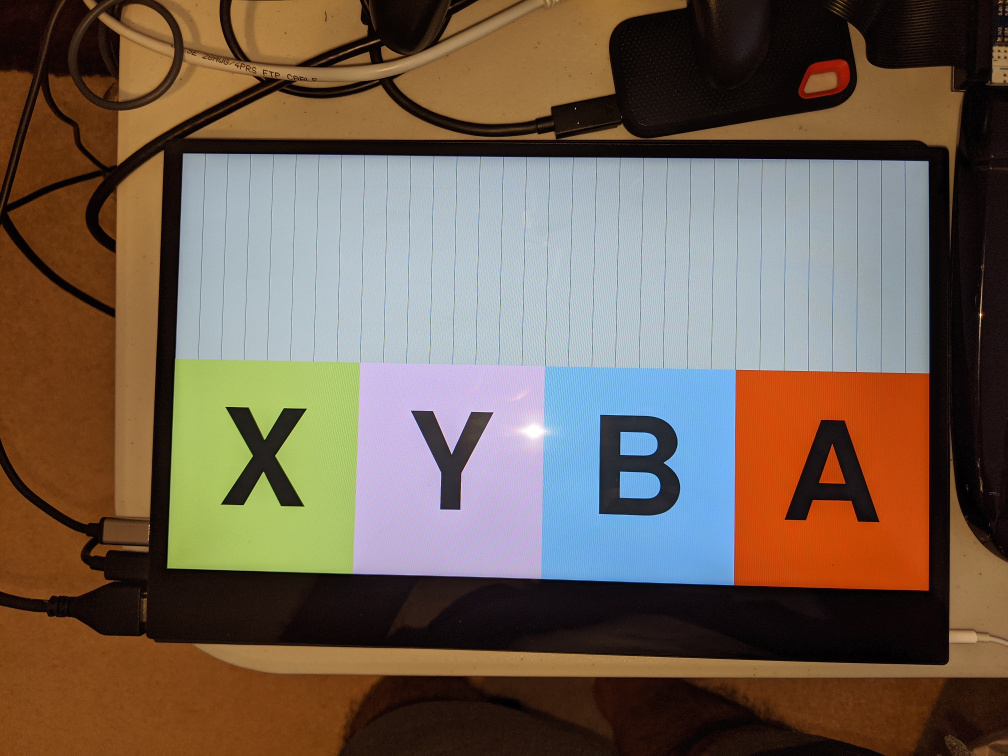
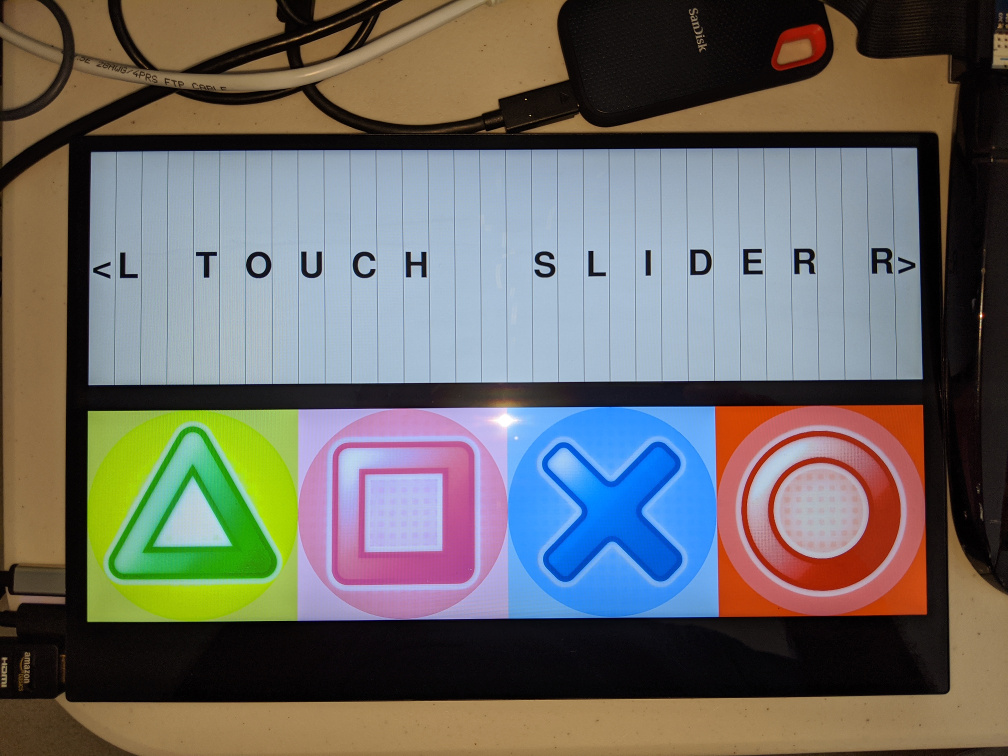
Add button graphics

diff --git a/pdtouch.py b/pdtouch.py
@@ -30,6 +30,7 @@ SOFTWARE.
 """
 
 import sys
+import os
 import pygame
 from pygame.locals import *
 import serial
@@ -61,10 +62,11 @@ DISPLAYSURF = pygame.display.set_mode((0, 0), pygame.FULLSCREEN | pygame.HWSURFA
 pygame.mouse.set_visible(False)
 if pygame.font:
     fontDefault = pygame.font.Font(None, 504)
+    fontSlider = pygame.font.Font(None, 120)
 
 class SlideBar:
     """ Project Diva slide bar """
-    def __init__(self, topLeft, bottomRight, rows, columns, gridlines, bgcolor):
+    def __init__(self, topLeft, bottomRight, rows, columns, gridlines, bgcolor, properties):
         """ Constructor """
         self.topLeft = topLeft
         self.bottomRight = bottomRight
@@ -77,6 +79,7 @@ class SlideBar:
         self.handsOld = []
         self.cell_height = (bottomRight[1] - topLeft[1]) / rows
         self.cell_width = (bottomRight[0] - topLeft[0]) / columns
+        self.cell_properties = properties
 
 
     def drawCell(self, rect, color):
@@ -102,8 +105,8 @@ class SlideBar:
         """
         Draw all slider cells.
         Draw grid of size width x height. Each element of the grid is a cell of
-        cell_width x cell_height. For example, given a screen size of 1920 x 1080 and a grid 32 cols and 1
-        row, cell_width = 1920 / 32 and cell_height = 1080 / 1
+        cell_width x cell_height. For example, given a screen size of 1920 x 1080 and
+        a grid 32 cols and 1 row, cell_width = 1920 / 32 and cell_height = 1080 / 1
         """
 
         for y in range(self.rows):
@@ -121,6 +124,11 @@ class SlideBar:
                 cell_center = (int(x * self.cell_width + self.cell_width/2),
                     int(y * self.cell_height + self.cell_height/2))
                 gridcell["button_center"] = cell_center
+                text = fontSlider.render(self.cell_properties[y*(self.rows-1) + x]['label'], 1, (10, 10, 10))
+                textpos = text.get_rect(center=cell_center)
+                gridcell['text'] = text
+                gridcell['textpos'] = textpos
+                DISPLAYSURF.blit(text, textpos)
                 LEDrect = pygame.Rect(self.topLeft[0] + x*self.cell_width,
                         self.topLeft[1] + y*self.cell_height,
                         self.cell_width, self.cell_height/8)
@@ -277,7 +285,42 @@ class SlideBar:
             self.hands.append(hand)
         return len(self.hands)
 
-Slider = SlideBar([0,0], [screen_width, screen_height/2], 1, 32, True, (192,192,192))
+# Properties for every cell, that is, 32
+SliderProps = [
+        {'label': '<'},
+        {'label': 'L'},
+        {'label': ' '},
+        {'label': ' '},
+        {'label': 'T'},
+        {'label': ' '},
+        {'label': 'O'},
+        {'label': ' '},
+        {'label': 'U'},
+        {'label': ' '},
+        {'label': 'C'},
+        {'label': ' '},
+        {'label': 'H'},
+        {'label': ' '},
+        {'label': ' '},
+        {'label': ' '},
+        {'label': ' '},
+        {'label': 'S'},
+        {'label': ' '},
+        {'label': 'L'},
+        {'label': ' '},
+        {'label': 'I'},
+        {'label': ' '},
+        {'label': 'D'},
+        {'label': ' '},
+        {'label': 'E'},
+        {'label': ' '},
+        {'label': 'R'},
+        {'label': ' '},
+        {'label': ' '},
+        {'label': 'R'},
+        {'label': '>'},
+]
+Slider = SlideBar([0,0], [screen_width, screen_height/2], 1, 32, True, (192,192,192), SliderProps)
 Slider.draw()
 
 class BigButtons:
@@ -299,7 +342,10 @@ class BigButtons:
         """ Draw one cell/button """
         rect = gridcell['rect']
         pygame.draw.rect(DISPLAYSURF, color, rect, 0)
-        DISPLAYSURF.blit(gridcell['text'], gridcell['textpos'])
+        if gridcell['picture']:
+            DISPLAYSURF.blit(gridcell['picture'], rect)
+        else:
+            DISPLAYSURF.blit(gridcell['text'], gridcell['textpos'])
         pygame.display.update(rect)
 
     def buttonOn(self, gridcell):
@@ -341,6 +387,7 @@ class BigButtons:
                 gridcell['text'] = text
                 gridcell['textpos'] = textpos
                 gridcell['color'] = self.properties[button_index]['buttonColor']
+                gridcell['picture'] = pygame.image.load(os.path.join('assets', self.properties[button_index]['picture']))
                 self.drawCell(gridcell, self.properties[button_index]['buttonColor'])
                 gridcell['nsButton'] = self.properties[button_index]['nsButton']
                 self.buttongrid.append(gridcell)
@@ -368,12 +415,12 @@ class BigButtons:
         return -1
 
 button_properties = [
-        {"label": "X", "buttonColor": [180,201,132], "nsButton": 3},
-        {"label": "Y", "buttonColor": [225,178,212], "nsButton": 0},
-        {"label": "B", "buttonColor": [143,181,220], "nsButton": 1},
-        {"label": "A", "buttonColor": [213, 62, 31], "nsButton": 2}
+    {"label": "X", "buttonColor": [180,201,132], "nsButton": 3, "picture": "triangle.png"},
+    {"label": "Y", "buttonColor": [225,178,212], "nsButton": 0, "picture": "square.png"},
+    {"label": "B", "buttonColor": [143,181,220], "nsButton": 1, "picture": "cross.png"},
+    {"label": "A", "buttonColor": [213, 62, 31], "nsButton": 2, "picture": "circle.png"}
 ]
-Buttons = BigButtons([0,screen_height/2], [screen_width, screen_height], 1, 4, False, (128,128,128), button_properties)
+Buttons = BigButtons([0,screen_height-screen_width/4], [screen_width, screen_height], 1, 4, False, (128,128,128), button_properties)
 Buttons.draw()
 
 # Up to 10 touches/fingers
